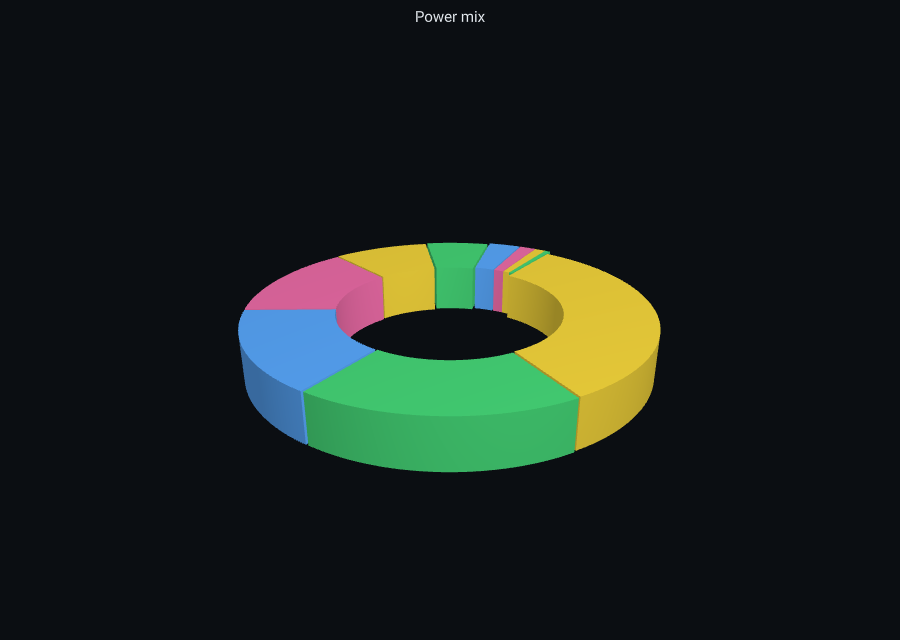
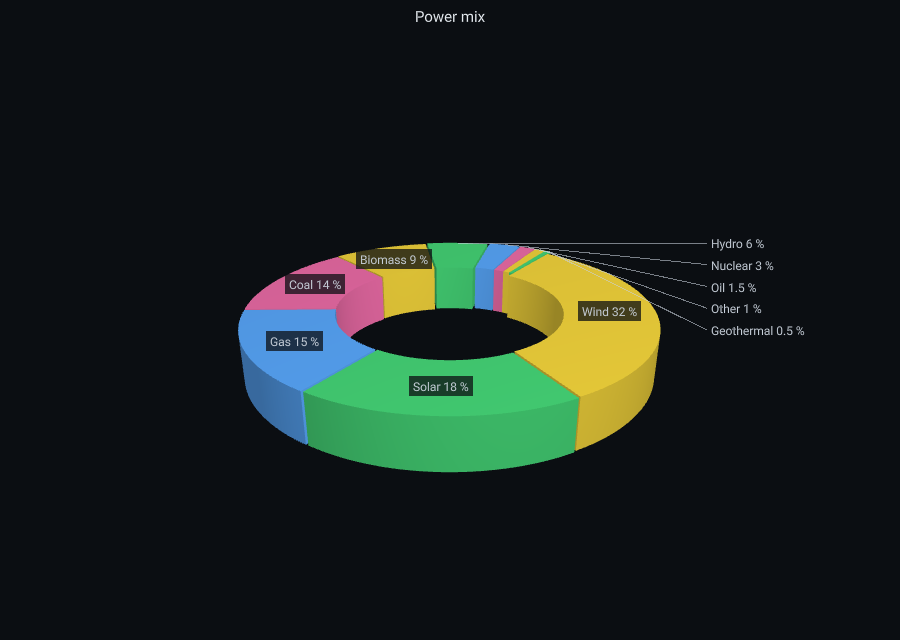
Labels on 3D pies and donuts

diff --git a/src/Tachyon.Charts.ThreeD/Rendering/PieLabels3D.cs b/src/Tachyon.Charts.ThreeD/Rendering/PieLabels3D.cs
@@ -1,0 +1,148 @@
+using System.Numerics;
+using Tachyon.Charts.Core.Instruments;
+using Tachyon.Charts.Core.Layout;
+using Tachyon.Charts.Core.Overlays;
+using Tachyon.Charts.ThreeD.Scene;
+
+namespace Tachyon.Charts.ThreeD.Rendering;
+
+/// <summary>
+/// Writes the labels of the pies in 3D, flat over the picture, as a pie in 2D does: on the slice when it is wide
+/// enough, otherwise beside the pie with a line to its edge, spread so that no two labels overlap.
+/// </summary>
+/// <param name="scene">The scene.</param>
+internal sealed class PieLabels3D(Scene3D scene) : ChartOverlay
+{
+    private const double Inset = 4;
+    private const double InsideShare = 0.06;
+    private const double Gap = 14;
+
+    private readonly List<Outside> _left = [];
+    private readonly List<Outside> _right = [];
+    private readonly List<DipRect> _placed = [];
+
+    /// <inheritdoc />
+    protected override long ExternalVersion
+    {
+        get
+        {
+            var version = scene.Camera.Version + scene.Version + ChartText.Version;
+            foreach (var pie in scene.Pies)
+            {
+                version += pie.Version;
+            }
+
+            return version;
+        }
+    }
+
+    /// <inheritdoc />
+    protected override void Draw(OverlayCanvas canvas)
+    {
+        var pane = canvas.Layout.Panes[0];
+        var matrix = scene.Camera.CreateMatrix(pane.Width / pane.Height);
+        var line = canvas.GetLineHeight(canvas.LabelSize);
+        foreach (var pie in scene.Pies)
+        {
+            _left.Clear();
+            _right.Clear();
+            _placed.Clear();
+            var (minimum, maximum) = Extent(pie, pane, matrix);
+            var center = ToScreen(pane, matrix, new Point3D(0, 0, pie.Height / 2));
+            for (var i = 0; i < pie.Values.Count; i++)
+            {
+                if (pie.LabelText(i) is not { Length: > 0 } text || pie.LabelPoint(i) is not { } inside || pie.TopPoint(i, 1) is not { } edge)
+                {
+                    continue;
+                }
+
+                var width = canvas.MeasureWidth(text, canvas.LabelSize);
+                // On the slice when it is wide enough and the label covers none placed before; slices seen flat at the back may not.
+                var place = ToScreen(pane, matrix, inside);
+                var area = Area(width, line, place.X - (width / 2), place.Y);
+                if (pie.GetShare(i) >= InsideShare && !_placed.Exists(other => Overlap(other, area)))
+                {
+                    _placed.Add(area);
+                    Label(canvas, text, width, line, place.X - (width / 2), place.Y);
+                    continue;
+                }
+
+                var anchor = ToScreen(pane, matrix, edge);
+                (anchor.X < center.X ? _left : _right).Add(new Outside(text, width, anchor, anchor.Y));
+            }
+
+            Spread(canvas, _left, pane, line, minimum - Gap, isLeft: true);
+            Spread(canvas, _right, pane, line, maximum + Gap, isLeft: false);
+        }
+    }
+
+    private static bool Overlap(DipRect a, DipRect b) => a.X < b.X + b.Width && b.X < a.X + a.Width && a.Y < b.Y + b.Height && b.Y < a.Y + a.Height;
+
+    private static DipRect Area(double width, double line, double left, double middle) =>
+        new(Math.Round(left - Inset), Math.Round(middle - (line / 2) - (Inset / 2)), width + (2 * Inset), line + Inset);
+
+    private static void Label(OverlayCanvas canvas, string text, double width, double line, double left, double middle)
+    {
+        var area = Area(width, line, left, middle);
+        canvas.FillRectangle(area, canvas.BackgroundColor with { A = 190 });
+        canvas.DrawText(text, Math.Round(area.X + Inset), Math.Round(area.Y + (Inset / 2) + (line * 0.8)), canvas.LabelSize, canvas.TextColor);
+    }
+
+    // The left and right edge of the pie on the screen, from points around its rim.
+    private (double Minimum, double Maximum) Extent(Pie3D pie, DipRect pane, Matrix3D matrix)
+    {
+        var (minimum, maximum) = (double.MaxValue, double.MinValue);
+        var reach = 1 + pie.ExplodeDistance;
+        for (var step = 0; step < 72; step++)
+        {
+            var angle = step * Math.PI / 36;
+            foreach (var z in (ReadOnlySpan<double>)[-pie.Height / 2, pie.Height / 2])
+            {
+                var point = ToScreen(pane, matrix, new Point3D(Math.Cos(angle) * reach, Math.Sin(angle) * reach, z));
+                (minimum, maximum) = (Math.Min(minimum, point.X), Math.Max(maximum, point.X));
+            }
+        }
+
+        return (minimum, maximum);
+    }
+
+    // The labels of one side top to bottom, at least one line apart, then back up from the bottom, each with its line.
+    private static void Spread(OverlayCanvas canvas, List<Outside> labels, DipRect pane, double line, double column, bool isLeft)
+    {
+        if (labels.Count == 0)
+        {
+            return;
+        }
+
+        labels.Sort(static (a, b) => a.Y.CompareTo(b.Y));
+        var step = line + Inset + 2;
+        var y = new double[labels.Count];
+        for (var i = 0; i < y.Length; i++)
+        {
+            y[i] = Math.Max(labels[i].Y, i == 0 ? pane.Y + step : y[i - 1] + step);
+        }
+
+        for (var i = y.Length - 1; i >= 0; i--)
+        {
+            y[i] = Math.Min(y[i], i == y.Length - 1 ? pane.Bottom - step : y[i + 1] - step);
+        }
+
+        var color = canvas.TextColor with { A = 150 };
+        for (var i = 0; i < labels.Count; i++)
+        {
+            var label = labels[i];
+            canvas.DrawLine(label.Anchor, new Vector2((float)column, (float)y[i]), 1, color);
+            Label(canvas, label.Text, label.Width, line, isLeft ? column - Inset - label.Width : column + Inset, y[i]);
+        }
+    }
+
+    // From data units through the box of the axes onto the screen.
+    private Vector2 ToScreen(DipRect pane, Matrix3D matrix, Point3D point)
+    {
+        var box = new Point3D(AxisBox3D.ToBox(scene.XAxis, point.X), AxisBox3D.ToBox(scene.YAxis, point.Y), AxisBox3D.ToBox(scene.ZAxis, point.Z));
+        var (x, y, _) = matrix.Project(box);
+        return new Vector2((float)(pane.X + ((x + 1) / 2 * pane.Width)), (float)(pane.Y + ((1 - y) / 2 * pane.Height)));
+    }
+
+    private readonly record struct Outside(string Text, double Width, Vector2 Anchor, double Y);
+}

diff --git a/src/Tachyon.Charts.ThreeD/Scene/Pie3D.cs b/src/Tachyon.Charts.ThreeD/Scene/Pie3D.cs
@@ -1,3 +1,5 @@
+using Tachyon.Charts.Core.Instruments;
+using Tachyon.Charts.Core.Series;
 using Tachyon.Charts.Rendering;
 
 namespace Tachyon.Charts.ThreeD.Scene;
@@ -88,6 +90,9 @@ public sealed class Pie3D
     /// <summary>Gets the colors of the slices, or <see langword="null"/> for the palette of the theme.</summary>
     public IReadOnlyList<Rgba8>? Colors { get; init; }
 
+    /// <summary>Gets what the label on each slice shows: name, share, value or nothing, as on a pie in 2D.</summary>
+    public PieLabels Labels { get; init; } = PieLabels.NameAndPercent;
+
     /// <summary>Gets how the slices take the light.</summary>
     public Material3D Material { get; init; } = new() { Gloss = 0.25, Sharpness = 32 };
 
@@ -162,6 +167,53 @@ public sealed class Pie3D
 
             start += sweep;
         }
+    }
+
+    /// <summary>Gets the place of the label of a slice: the middle of its top, in data units, moved with the slice.</summary>
+    /// <param name="index">The number of the slice.</param>
+    /// <returns>The place, or <see langword="null"/> for a value without a slice.</returns>
+    internal Point3D? LabelPoint(int index) => TopPoint(index, InnerRadius > 0 ? (InnerRadius + 1) / 2 : 0.62);
+
+    /// <summary>Gets a point on the top of a slice along its middle, in data units, moved with the slice.</summary>
+    /// <param name="index">The number of the slice.</param>
+    /// <param name="radius">The distance from the axis in units of the radius.</param>
+    /// <returns>The point, or <see langword="null"/> for a value without a slice.</returns>
+    internal Point3D? TopPoint(int index, double radius)
+    {
+        if (!Counts(Values[index]) || Total <= 0)
+        {
+            return null;
+        }
+
+        var start = 0.0;
+        for (var i = 0; i < index; i++)
+        {
+            start += Counts(Values[i]) ? Values[i] / Total * 2 * Math.PI : 0;
+        }
+
+        var sweep = Values[index] / Total * 2 * Math.PI;
+        var middle = (Math.PI / 2) - start - (sweep / 2);
+        var direction = new Point3D(Math.Cos(middle), Math.Sin(middle), 0);
+        var lift = sweep >= (2 * Math.PI) - 1e-9 ? 0 : Math.Min(Gap / 2 / Math.Max(Math.Sin(Math.Min(sweep, Math.PI) / 2), 1e-3), 0.05);
+        var place = direction * (radius + lift + (index == ExplodedIndex ? ExplodeDistance : 0));
+        return new Point3D(place.X, place.Y, Height / 2);
+    }
+
+    /// <summary>Writes the label of a slice as <see cref="Labels"/> asks.</summary>
+    /// <param name="index">The number of the slice.</param>
+    /// <returns>The text; empty for none.</returns>
+    internal string LabelText(int index)
+    {
+        var share = GetShare(index);
+        var percent = (share * 100).ToString(share < 0.1 ? "0.#" : "0", ChartText.Culture) + " %";
+        return Labels switch
+        {
+            PieLabels.None => string.Empty,
+            PieLabels.Name => Names[index],
+            PieLabels.Percent => percent,
+            PieLabels.Value => Values[index].ToString("G4", ChartText.Culture),
+            _ => Names[index].Length == 0 ? percent : Names[index] + " " + percent,
+        };
     }
 
     private static bool Counts(double value) => double.IsFinite(value) && value > 0;

diff --git a/src/Tachyon.Charts.Configurator.ThreeD/ThreeDModule.cs b/src/Tachyon.Charts.Configurator.ThreeD/ThreeDModule.cs
@@ -1,6 +1,7 @@
 using System.Globalization;
 using Tachyon.Charts.Core.Data;
 using Tachyon.Charts.Core.Numerics;
+using Tachyon.Charts.Core.Series;
 using Tachyon.Charts.ThreeD;
 using Tachyon.Charts.ThreeD.Scene;
 
@@ -86,8 +87,8 @@ public sealed class ThreeDModule : IChartModule
 
     // A pie in 3D; with a hole it is a donut.
     private static ChartTypeInfo Pie3DType(string id, string name, double hole) => Type(id, name, DataShape.Slices, "mix", typeof(Pie3D), nameof(Chart3DBuilder.AddPie), null,
-        [new("innerRadius", "Hole", ParameterKind.Number, hole) { Minimum = 0, Maximum = 0.9, Description = "The radius of the hole as a share of the radius; above 0 for a donut." }, new("height", "Height", ParameterKind.Number, 0.3) { Minimum = 0.02, Maximum = 1 }, new("explodeDistance", "Pulled out by", ParameterKind.Number, 0.15) { Minimum = 0, Maximum = 0.5 }],
-        [("innerRadius", nameof(Pie3D.InnerRadius)), ("height", nameof(Pie3D.Height)), ("explodeDistance", nameof(Pie3D.ExplodeDistance))],
+        [new("labels", "Labels", ParameterKind.Choice, nameof(PieLabels.NameAndPercent)) { Choices = Enum.GetNames<PieLabels>() }, new("innerRadius", "Hole", ParameterKind.Number, hole) { Minimum = 0, Maximum = 0.9, Description = "The radius of the hole as a share of the radius; above 0 for a donut." }, new("height", "Height", ParameterKind.Number, 0.3) { Minimum = 0.02, Maximum = 1 }, new("explodeDistance", "Pulled out by", ParameterKind.Number, 0.15) { Minimum = 0, Maximum = 0.5 }],
+        [("labels", nameof(Pie3D.Labels)), ("innerRadius", nameof(Pie3D.InnerRadius)), ("height", nameof(Pie3D.Height)), ("explodeDistance", nameof(Pie3D.ExplodeDistance))],
         data => Pie(data), data => $"new Pie3D({data}.Values, {data}.Names)");
 
     // The camera and the group first, then the series, then the cut plane, the same in the preview and in the code.

diff --git a/src/Tachyon.Charts.ThreeD/Chart3DBuilder.cs b/src/Tachyon.Charts.ThreeD/Chart3DBuilder.cs
@@ -264,6 +264,7 @@ public sealed class Chart3DBuilder
                 series?.Bind(chart, _group is { } name ? ChartGroup.Get(name) : null);
                 return new AxisLabels3D(Scene);
             })
+            .AddOverlay(_ => new PieLabels3D(Scene))
             .AddOverlay(_ => new PickLabels3D(Scene, pointer))
             .Modifiers(m => m.Custom(() => new Orbit3DModifier(Scene, pointer)));
     }

diff --git a/docs/guide/pie.md b/docs/guide/pie.md
@@ -33,6 +33,8 @@ var pie = new Pie3D(values, names) { ExplodedIndex = 1 };          // InnerRadiu
 var chart = new Chart3D().Configure(c => c.Title("Power mix").AddPie(pie));
 ```
 
+Each slice carries a label as in 2D: `Labels = PieLabels.NameAndPercent` by default, or `Name`, `Percent`, `Value` or `None`. Wide slices show it on their top; narrow ones, and slices seen flat at the back, show it beside the pie with a line to their edge.
+
 `AddPie` puts the pie in the middle of the box, hides the axes and moves the view closer. Slices run clockwise from the top as in 2D; zero, negative and missing values get no slice. The pointer shows name, value and share of a slice, and a click pulls it out or back. `Height`, `Gap`, `ExplodeDistance`, `Colors` and `Material` set the look; without `Colors` the slices take the palette of the theme.
 
 In the showroom: *Pie*, *Donut*, *Pie 3D*, *Donut 3D*.
